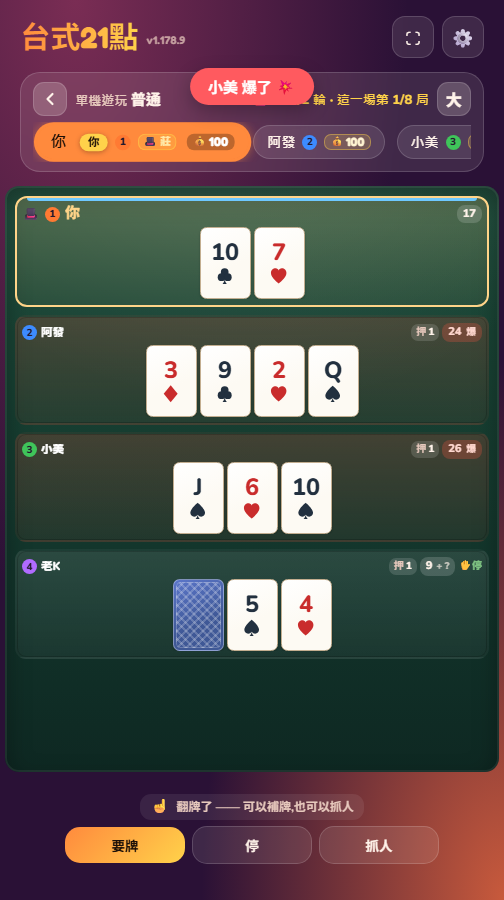
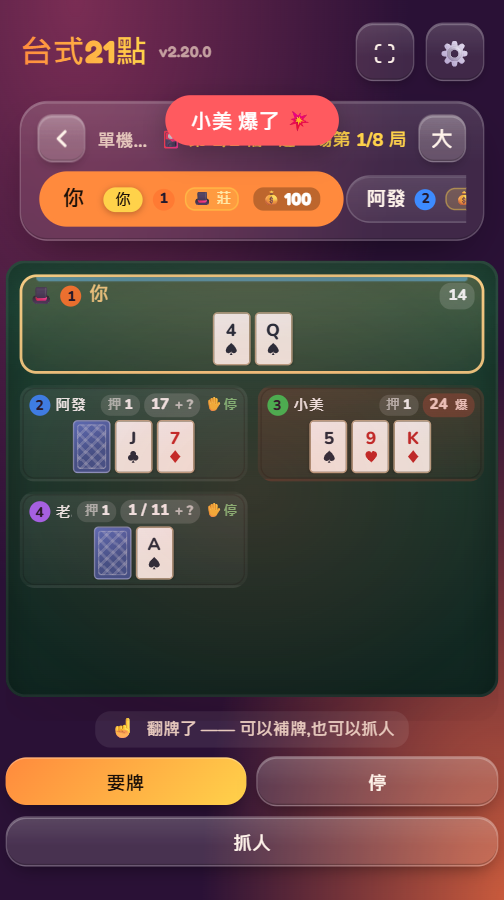
docs(readme): 改成十七款遊戲 —— 補飛行棋／跳棋／方塊對戰／泡泡對戰／電梯來了的介紹與截圖,全部截圖重拍到 v2.20.0,共通功能補即時語音／QR 進房／觀戰

diff --git a/README.md b/README.md
@@ -1,6 +1,6 @@
-# 🎉 派對遊戲 ｜ 十二款多人連線遊戲（Online Multiplayer Party Games）
+# 🎉 派對遊戲 ｜ 十七款多人連線遊戲（Online Multiplayer Party Games）
 
-一個網址、**十二款遊戲**：賓果、五子棋、數獨、麻將消消樂、台灣 16 張麻將、排七、大老二、台式 21 點、UNO、象棋暗棋、成語接龍、你畫我猜。
+一個網址、**十七款遊戲**：賓果、五子棋、數獨、麻將消消樂、台灣 16 張麻將、排七、大老二、台式 21 點、UNO、象棋暗棋、成語接龍、你畫我猜、飛行棋、跳棋、方塊對戰、泡泡對戰、電梯來了。
 
 **開一間房，朋友用手機點進來就能加入** —— 不必記房號、不必註冊、不必安裝。大部分遊戲也能一個人**離線單機**玩（多數配有電腦對手）。手機、平板、電腦都適用。
 
@@ -9,12 +9,12 @@
 **🌐 立即遊玩：** https://michaelho2520.github.io/Bingo/
 
 <p align="center">
-  <img src="screenshots/home.png" width="300" alt="主選單:十二款遊戲的圖示格,依熱門度排序">
+  <img src="screenshots/home.png" width="300" alt="主選單:十七款遊戲的圖示格,依熱門度排序">
 </p>
 
 ---
 
-## 🎮 十二款遊戲
+## 🎮 十七款遊戲
 
 <table>
   <tr>
@@ -35,6 +35,15 @@
     <td align="center"><b>🧩 成語接龍</b><br><img src="screenshots/chengyu.png" width="200" alt="成語接龍:交叉填字盤與待填的字"></td>
     <td align="center"><b>🎨 你畫我猜</b><br><img src="screenshots/draw.png" width="200" alt="你畫我猜:建立房間 / 加入朋友的房間"></td>
   </tr>
+  <tr>
+    <td align="center"><b>✈ 飛行棋</b><br><img src="screenshots/flychess.png" width="200" alt="飛行棋:四色機場與十字跑道"></td>
+    <td align="center"><b>⭐ 跳棋</b><br><img src="screenshots/tiaoqi.png" width="200" alt="中國跳棋:六角星棋盤"></td>
+    <td align="center"><b>🧱 方塊對戰</b><br><img src="screenshots/blocks.png" width="200" alt="方塊對戰:落下中的方塊與操作鈕"></td>
+    <td align="center"><b>🫧 泡泡對戰</b><br><img src="screenshots/bubble.png" width="200" alt="泡泡對戰:彩色泡泡與瞄準線"></td>
+  </tr>
+  <tr>
+    <td align="center"><b>🛗 電梯來了</b><br><img src="screenshots/lift.png" width="200" alt="電梯來了:樓層井道、玩家分數與秘密目標"></td>
+  </tr>
 </table>
 
 每一款的玩法、可以幾個人一起玩、以及一個人能不能玩：
@@ -53,6 +62,11 @@
 | 🔴 **象棋暗棋** | 32 顆蓋著擺滿 4×8，翻到什麼算什麼，吃到就連著再走 | 2 人 | 電腦對手 |
 | 🧩 **成語接龍** | **交叉填字盤**，把成語填進格子裡搶分 | 2–6 人 | 單人挑戰 |
 | 🎨 **你畫我猜** | 一人畫、其他人打字搶答，輪流當畫家 | 2–6 人 | ✗ 只有連線 |
+| ✈ **飛行棋** | 擲骰推飛機回家，踩到別人就把他打回機場 | 2–4 人 | 電腦對手 |
+| ⭐ **跳棋** | 中國跳棋・六角星：連跳一口氣飛過半個盤面 | 2–6 人 | 電腦對手 |
+| 🧱 **方塊對戰** | 俄羅斯方塊玩法，消行把垃圾行塞給對手 | 2–4 人 | 練習 / 40 行競速 / 電腦對手 |
+| 🫧 **泡泡對戰** | 泡泡龍玩法，打掉的泡泡整排塞給對手 | 2–4 人 | 練習 / 電腦對手 |
+| 🛗 **電梯來了** | 秘密選目標樓層，大家同時出 0／5／10 推電梯，停在你的樓層就得分 | 2–8 人（兩人時自動補一台電腦） | 電腦對手 |
 
 ---
 
@@ -65,11 +79,14 @@
 - **斷線自動復原**：切到別的 App、短暫斷網都不會掉出房間，回來自動歸位、分數不歸零。
 - **房主管理**：可以移出玩家、重設戰績、開新一輪。
 - **連玩多局計分**：多數遊戲會累積勝場 / 分數排行，一玩就是一整晚。
+- **掃 QR 碼進房**：房間可以秀 QR 碼或直接分享連結，現場朋友一掃就進來。
+- **觀戰**：暗棋、五子棋、方塊對戰、泡泡對戰、電梯來了的房間滿了或正在打，也能進去旁觀、講話、送表情。
 
 ### 💬 即時互動
 
 - **互動表情**：對全場或指定某人送出表情，畫面上會飛出來。
 - **一句話訊息**：內建罐頭短語（「加油～」「穩住穩住」「太扯了 😂」…），也能自己打字。
+- **即時語音**：房裡的人可以直接開麥克風講話，不必另外開通話軟體。
 - **語音留言**：現場錄一段送給全房，還能**自訂自己的語音**。
 
 <p align="center">
@@ -80,7 +97,7 @@
 
 ### 🎯 一個人也能玩
 
-十二款裡有十一款可以單機遊玩，其中七款（五子棋、台灣麻將、排七、大老二、台式 21 點、UNO、象棋暗棋）配有**電腦對手**，其餘是單人解謎 / 練習；五子棋還能兩個人**輪流點同一支手機**下。安裝成 App 後**離線也能玩**。
+十七款裡有十六款可以單機遊玩，其中十二款（五子棋、台灣麻將、排七、大老二、台式 21 點、UNO、象棋暗棋、飛行棋、跳棋、方塊對戰、泡泡對戰、電梯來了）配有**電腦對手**，其餘是單人解謎 / 練習；五子棋還能兩個人**輪流點同一支手機**下。安裝成 App 後**離線也能玩**。
 
 ### 🎨 個人化與體驗
 
@@ -105,6 +122,6 @@
 ## 🔖 關於
 
 - **技術**：純 HTML / CSS / JavaScript 前端網頁，**無建置流程**；多人連線採用 Firebase Realtime Database，不需要後端伺服器，也不需要安裝任何東西。
-- **關鍵字**：多人連線遊戲 / 團康遊戲 / 派對遊戲 / 賓果 Bingo / 五子棋 / 數獨 / 麻將 / 台灣16張麻將 / 排七 / 大老二 / 21點 / UNO / 暗棋 / 成語接龍 / 你畫我猜 / online multiplayer party games。
+- **關鍵字**：多人連線遊戲 / 團康遊戲 / 派對遊戲 / 賓果 Bingo / 五子棋 / 數獨 / 麻將 / 台灣16張麻將 / 排七 / 大老二 / 21點 / UNO / 暗棋 / 成語接龍 / 你畫我猜 / 飛行棋 / 跳棋 / 俄羅斯方塊 / 泡泡龍 / 電梯來了 / online multiplayer party games。
 
 <sub>Made with ❤ by Michael Ho</sub>
